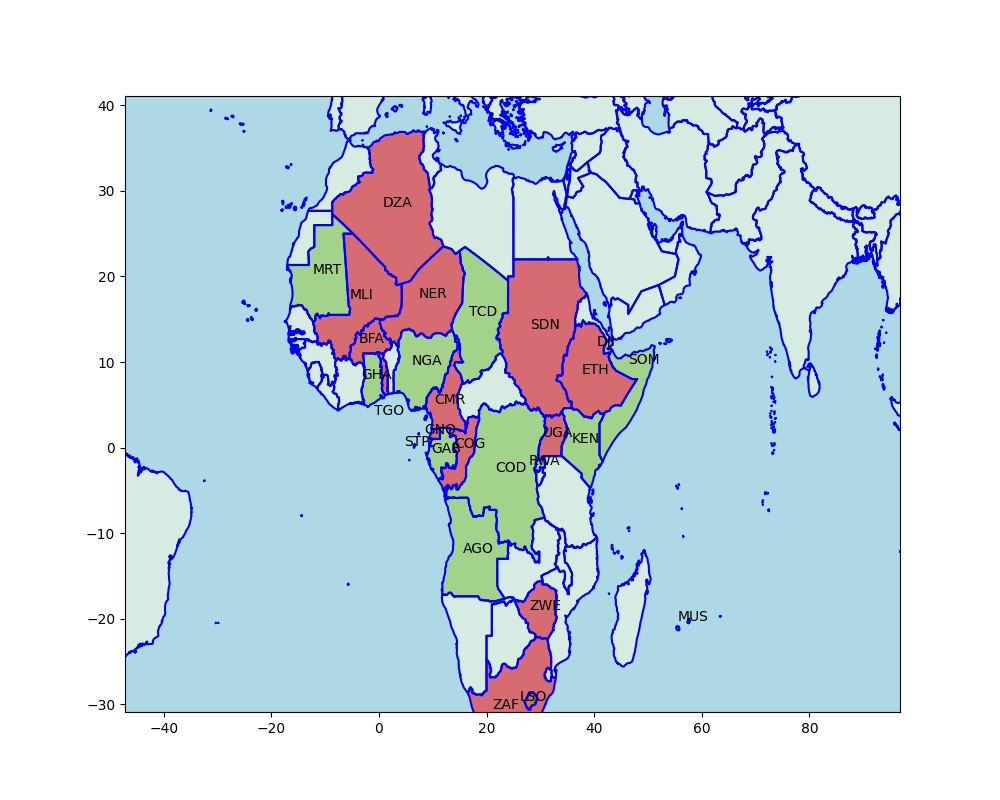
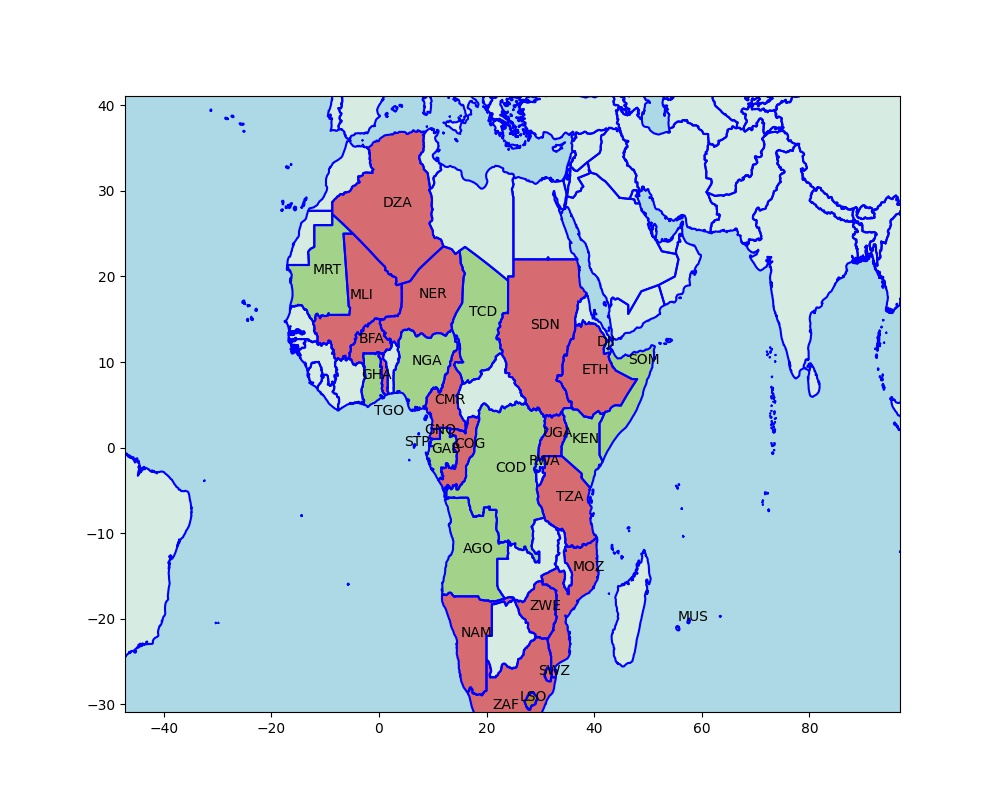
--

Changed region(s): [[0.527, 0.5625, 0.62, 0.8438], [0.434, 0.7188, 0.496, 0.875]]

diff --git a/en/2022/12/ru-africa.md b/en/2022/12/ru-africa.md
@@ -5,10 +5,12 @@ pro-US countries in Africa. Countries siding with RU are colored in
 red, for US green, country codes are iso3, full list is [here](https://www.iban.com/country-codes).
 
 ```python
+import util as u
 ru = ['Mali','Ethiopia','Congo','South Africa',
       'Sudan','Uganda','Zimbabwe','Burkina Faso',
       'Cameroon','Equatorial Guinea','Sao Tome and Principe',
-      'Niger','Algeria','Togo'] 
+      'Niger','Algeria','Togo','Lesotho','Swaziland',
+      'Namibia','Mozambique','United Republic of Tanzania'] 
 
 us = ['Chad','Gabon','Ghana','Kenya','Rwanda',
        'Djibouti','Somalia', 'Democratic Republic of the Congo',
@@ -25,13 +27,16 @@ plt.savefig('af-ru-us.jpg')
 ### News
 
 [11/11](https://tfiglobalnews.com/2022/11/11/angola-switched-its-ties-from-russia-to-us-and-now-its-sovereignty-is-in-danger/)
-Angola switched its ties from Russia to US
+Angola switched its ties from Russia to US.
 
 [5/11](https://tfiglobalnews.com/2022/11/05/biden-confirms-that-burkina-faso-is-now-on-russias-side/) -
-Biden confirms that Burkina Faso is now on Russia’s side
+Biden confirms that Burkina Faso is now on Russia’s side.
 
 [17/10](https://tfiglobalnews.com/2022/10/17/pro-us-chad-has-been-surrounded-by-pro-russia-nations-and-its-surrender-is-inevitable/) -
-Pro-US Chad has been surrounded by pro-Russia nations, and its surrender is inevitable
+Pro-US Chad has been surrounded by pro-Russia nations, and its surrender is inevitable.
+
+[13/10](https://www.news24.com/news24/africa/news/seven-sadc-countries-including-sa-abstains-in-un-vote-against-russia-annexing-parts-of-ukraine-20221013)
+Seven SADC countries, including SA, abstain in UN vote against Russia annexing parts of Ukraine.
 
 [13/10](https://www.moroccoworldnews.com/2022/10/351809/algeria-abstains-from-un-vote-condemning-russias-annexations-in-ukraine)
 Algeria Abstains From UN Vote Condemning Russia
@@ -40,14 +45,14 @@ Algeria Abstains From UN Vote Condemning Russia
 Nigeria has joined the majority of the countries of the world to condemn the Russian annexation of Ukrainian territories.
 
 [13/10](https://www.africanews.com/2022/10/13/african-countries-divided-over-un-vote-against-russia//) -
-African countries divided over UN vote against Russia
+African countries divided over UN vote against Russia.
 
 [9/10](https://www.bbc.com/news/world-africa-63171771) -
-Why Russia is cheering on the Burkina Faso coup
+Why Russia is cheering on the Burkina Faso coup.
 
 [29/6](https://intellinews.com/russia-woos-africa-with-arms-grain-and-nuclear-power-252022/) -
-Russia woos Africa with arms, grain and nuclear power
+Russia woos Africa with arms, grain and nuclear power.
 
 [21/4](https://news.yahoo.com/ethiopians-hope-fight-russia-ukraine-161351963.html) -
-Ethiopians hope to fight for Russia in Ukraine
+Ethiopians hope to fight for Russia in Ukraine.
 

diff --git a/en/2022/02/h2-toloune-lohc.md b/en/2022/02/h2-toloune-lohc.md
@@ -36,6 +36,24 @@ between pipelines and liquid organic hydrogen carriers (LOHC), often
 transported in ships – and points to the limiting cost factors which
 shall define each transport use case.
 
+One VLCC ship [3] can carry up to 350,000 DWT which would be
+equivalent to 17,000 tons H2.  One train in Europe can pull up to 35
+wagons which would be equivalent to 59 tons of H2. A quick calculation
+shows the amount of energy that can be carried across Atlantic by a
+fleet of 20 ships using LOHC techology,
+
+```python
+one_trip = 17000*1000*33.6 / (365*24*1e3)
+print ("One trip, single ship %0.1f MW" % (one_trip))
+print ("Fleet %0.1f GW" % (one_trip*12*20 / 1e3))
+```
+
+```text
+One trip, single ship 65.2 MW
+Fleet 15.6 GW
+```
+
+
 Reference
 
 [1] [Hydrogenious Presentation - 1](https://www.energiewende-erlangen.de/wp-content/uploads/2018/02/0_HydrogeniousTechnologies.pdf)
@@ -43,5 +61,7 @@ Reference
 [1] [Hydrogenious Presentation - 2](https://arpa-e.energy.gov/sites/default/files/Schneider_HydrogeniousTechnologies_TransportationFuels_Workshop_FINAL.pdf)
 
 [2] [Rethink Energy](https://www.globalhydrogenreview.com/hydrogen/23092022/rethink-energy-pipelines-and-organic-carrier-ships-to-dominate-hydrogen-distribution/)
+
+[3] [Hydrogenious Presentation - 3](https://www.hydrogen.energy.gov/pdfs/07-Schmidt-Liquid%20Organic%20Hydrogen Carriers.pdf)
 
 [[Up]](h2-storage.html)

diff --git a/en/tweets/2022/week49.md b/en/tweets/2022/week49.md
@@ -192,7 +192,7 @@ batteries and even dirtier infrastructure"
 
 Follow our \#LOHC-based #hydrogen supply chain for the Northern Green
 Crane project! #Sweden will be our country of choice for importing up
-to 8,000 tonnes of \#greenhydrogen per year to the \#Netherlands and
+to 8,000 tonnes of \#greenhydrogen per [trip] to the \#Netherlands and
 \#Germany"
 
 <img width="340" src="twimg/FjYlOStWQAA_mmR.jpg"/>
